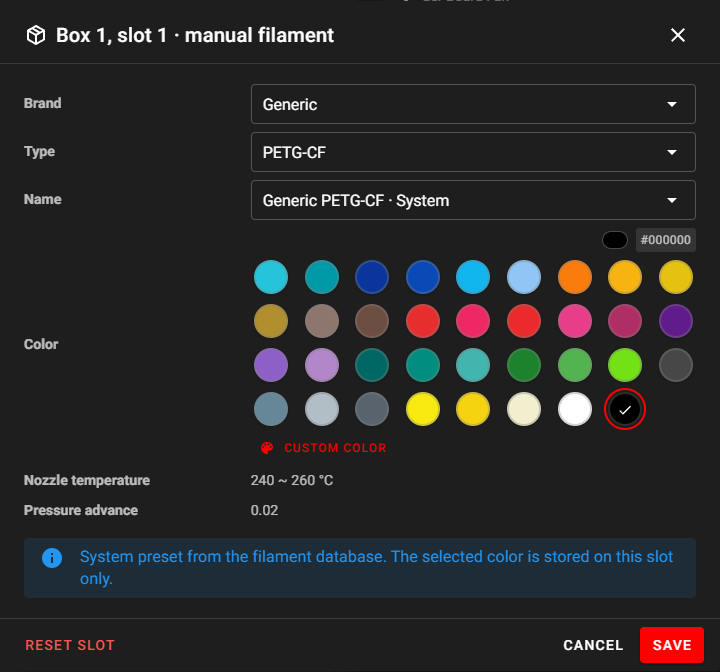
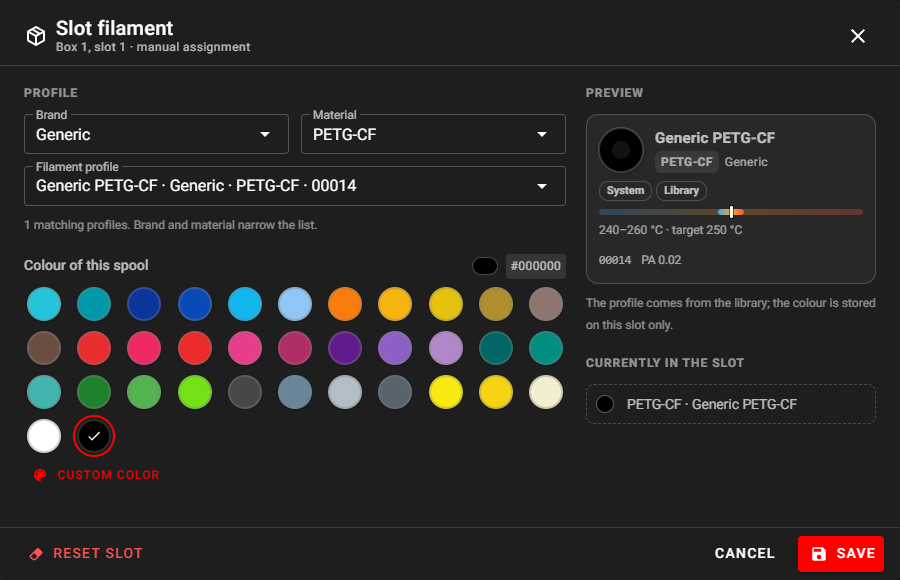
docs(cfs): document brands, the library file and the redesigned dialogs
- Slot editor, RFID sheet and print mapping sections describe the shared
  profile card, the remaining bar, the tag details and the match labels.
- The library section covers origin badges, brand management, the
  K2-RFID ID hint and the library file (config/cfs_filaments.json) with
  the keys that keep K2-RFID, OrcaSlicer and Spoolman working.
- Persistence, backend contract and command list follow the split
  between the library file and the runtime state.
- The Brands dialog note now says that deleting a brand in use moves
  its profiles.
- Refreshed screenshots.

diff --git a/src/components/dialogs/CfsFilamentManagerDialog.vue b/src/components/dialogs/CfsFilamentManagerDialog.vue
@@ -474,8 +474,8 @@
                 <v-card-actions>
                     <span class="cfs-brands-note">
                         <v-icon x-small class="mr-1">{{ mdiInformationOutline }}</v-icon>
-                        Added brands are stored in Mainsail's settings on the printer. A brand used by a profile can be
-                        deleted once no profile uses it; system catalog brands are locked.
+                        Added brands are stored in Mainsail's settings on the printer. Deleting a brand used by custom
+                        profiles moves them to another brand (or none); system catalog brands are locked.
                     </span>
                 </v-card-actions>
             </v-card>

diff --git a/docs/K2_CFS.md b/docs/K2_CFS.md
@@ -180,15 +180,15 @@ The footer shows the API, inventory and print-mapping contract versions. On phon
 
 ## 7. Slot editor (non-RFID spools)
 
-<img src="images/k2-openhost/cfs-slot-editor.png" alt="Slot editor" width="560">
+<img src="images/k2-openhost/cfs-slot-editor.png" alt="Slot editor" width="680">
 
-The pencil opens the slot editor:
+The pencil opens the slot editor. The slot editor, the RFID sheet and the library use the same profile card: spool swatch, name, material and brand, origin badges, the temperature bar and the ID/pressure advance footer.
 
-1. Pick **Brand → Type → Name** from the catalog. The material type comes from the known catalog and is not free text.
-2. Pick a **colour** from the palette (derived from the K2-RFID/Creality app colours) or use **Custom color**.
-3. Press **Save**.
+1. **Profile**: **Brand** and **Material** narrow the list, then **Filament profile** picks the profile (searchable, with colour dots). The counter says how many profiles match.
+2. **Colour of this spool**: pick from the palette (derived from the K2-RFID/Creality app colours) or use **Custom color**.
+3. **Save** assigns the profile and colour to the slot (`_BOX_SLOT_ASSIGN ... COLOR=`).
 
-The nozzle range and pressure advance of the chosen profile are shown read-only. The selected colour is stored on that slot only and does not create a new material profile. **Reset slot** clears only this bay's assignment; library profiles stay available.
+On the right, the **Preview** shows the card as it will be stored, and **Currently in the slot** shows what the bay holds now. The colour belongs to this slot only and does not create a new profile. **Reset slot** clears only this bay's assignment; library profiles stay available.
 
 Manual editing is disabled while a slot is managed by a live RFID tag; removing the tagged spool frees the slot.
 
@@ -196,16 +196,15 @@ Manual editing is disabled while a slot is managed by a live RFID tag; removing 
 
 <img src="images/k2-openhost/cfs-rfid-info.png" alt="RFID filament information" width="560">
 
-RFID-managed slots show a read-only sheet with:
+RFID-managed slots open a read-only sheet:
 
-- material, full name, brand and colour;
-- RFID code and filament ID;
-- nozzle temperature and pressure advance;
-- remaining filament in percent and metres.
+- **Filament on the tag**: the profile card, with the remaining filament drawn as a sector of the spool and the `RFID`, `Read only` and tag code badges.
+- **Remaining**: a bar in the spool colour with the percentage and metres left.
+- **Tag details**: material, full name, brand, colour, RFID code, filament ID, nozzle temperature and pressure advance.
 
-**Reread RFID** reads the tag again.
+**Reread RFID** reads the tag again (`_BOX_RFID_READ_SLOT`).
 
-**Unknown tags:** when a tag carries a material code missing from the inventory, the tile shows `RFID ?`. Its button opens the filament library with the tag code and colour already filled in; saving the new profile resolves the slot at once. Codes follow the DnG-Crafts/K2-RFID scheme (five-character material IDs, `1xxxxx` RFID filament IDs), so tags written with that tool are recognised.
+**Unknown tags:** when a tag carries a material code missing from the inventory, the tile shows `RFID ?`. Its button opens the filament library with the tag code and colour already filled in; saving the new profile resolves the slot at once. Codes follow the DnG-Crafts/K2-RFID scheme (five-digit material IDs, `1xxxxx` tag codes), so tags written with that app are recognised.
 
 ## 9. Filament library
 
@@ -218,8 +217,17 @@ The library holds the read-only **system catalog** shipped with K2-OpenHost (the
 - Every profile is a card with:
   - a spool swatch in its colour, its name, material and brand;
   - a **temperature bar**: the nozzle range on a 150–350 °C scale, with the target/flush temperature as a marker;
-  - badges: `System` or `Custom`, the RFID material code, and **In use** with the slots currently using the profile;
+  - badges: the **origin**, the RFID material code, and **In use** with the slots currently using the profile;
   - its ID, pressure advance and Spoolman ID.
+- Origin badges:
+
+  | Badge           | Meaning                                                            |
+  | --------------- | ------------------------------------------------------------------ |
+  | `System`        | shipped Creality/Generic catalog, read only                        |
+  | `Custom`        | created in the library                                             |
+  | `Imported`      | merged from a K2-RFID material database (`material_database_path`) |
+  | `From RFID tag` | registered automatically when its tag was read                     |
+
 - Quick filters **All**, **Custom**, **System** and **In use** (with counts), plus text search over name, brand, material, ID and RFID code, and **Brand** / **Material** filters.
 - An empty result offers **Clear filters**.
 
@@ -237,14 +245,49 @@ The editor is split into sections, with a live **preview** of the card:
 
 1. **Start from** (new profiles): search any system or custom profile and copy its values. The ID and RFID code you already set are kept.
 2. **Identity**:
-   - brand (choose an existing one or type a new one) and material (from the known material families);
-   - name, ideally the OrcaSlicer preset name, so automatic slot mapping can match it;
-   - **ID**: a free 5-digit ID (from 90001) is generated, compatible with K2-RFID tags. The editor refuses an ID that belongs to a system profile or to an existing custom profile, which the backend would otherwise silently overwrite.
+   - **Brand**: choose one from the list or type a new one. The typed text counts at once, even if you press **Create** without Enter. The tag button next to the field opens **Brands** (below).
+   - **Material**, from the known material families;
+   - **Name**, ideally the OrcaSlicer preset name, so automatic slot mapping can match it;
+   - **ID**: a free 5-digit ID (from 90001) is generated. It is the K2-RFID material ID: the hint shows the tag code (`1` + ID) that loads this profile. The editor refuses an ID that belongs to a system profile or to an existing custom profile, which the backend would otherwise overwrite.
 3. **Temperatures**: a range slider plus minimum, target/flush and maximum fields. The target must lie inside the range.
 4. **Colour**: the default colour for manual slots, from the palette or a custom colour.
 5. **Advanced**: pressure advance (0–2), RFID material code (`1xxxxx` tag codes are normalised) and Spoolman ID.
 
 **Create filament** stays disabled until every field is valid. A tag with an unknown RFID code opens this editor prefilled with the tag's code and colour.
+
+**Brands**
+
+| Brand list                                                                            | Deleting a brand in use                                                                             |
+| ------------------------------------------------------------------------------------- | --------------------------------------------------------------------------------------------------- |
+| <img src="images/k2-openhost/cfs-library-brands.png" alt="Brands dialog" width="380"> | <img src="images/k2-openhost/cfs-library-brand-delete.png" alt="Delete a brand in use" width="380"> |
+
+**Brands** (library footer, or the tag button next to the Brand field) lists every brand with what uses it:
+
+- **Add** a brand, so it is offered in the editor before any profile uses it. A brand typed in the editor joins the list when the profile is saved.
+- **Delete** removes a brand nobody uses at once.
+- For a brand used by custom profiles, **Delete** asks where those profiles go: another brand, none, or a new name, which renames the brand. Only the brand changes; temperatures, colour and every other value stay as they are. **Show profiles** filters the library on that brand.
+- Brands of the system catalog are locked.
+
+Added brands are stored in Mainsail's settings on the printer (Moonraker database, namespace `mainsail`, key `cfs.customBrands`), so every browser sees them.
+
+**Where profiles are saved**
+
+<img src="images/k2-openhost/cfs-library-file.png" alt="Library file and reload" width="760">
+
+Custom profiles live in their own file, `config/cfs_filaments.json` (backend `library_path`), named in the library footer:
+
+- it shows up in Mainsail's file manager and in Moonraker backups;
+- it can be edited or replaced from the file manager, the Moonraker file API or a companion app. The backend reloads it within a few seconds, or at once with the reload button (`_BOX_FILAMENT_RELOAD`), and slots using a changed profile follow it;
+- a damaged file is never overwritten: the library shows the error and changes are refused until the file is fixed.
+
+The file uses the same compact format as the system catalog: a `materials` list with `id`, `brand`, `name`, `material`, `color`, `target_temp`, `min_temp`, `max_temp`, `pressure_advance`, `rfid_codes`, `aliases`, `spoolman_id` and `source`. These keys keep the integrations working:
+
+| Integration      | Key                                                                                          |
+| ---------------- | -------------------------------------------------------------------------------------------- |
+| K2-RFID tags     | `id` (5 digits) and `rfid_codes` (`1` + ID): write a tag with that material ID               |
+| OrcaSlicer       | `name` (preset name) for automatic mapping                                                   |
+| Spoolman         | `spoolman_id`                                                                                |
+| K2-RFID database | `material_database_path` is imported when its content changes; deleted profiles stay deleted |
 
 On phones the library opens full screen:
 
@@ -256,7 +299,7 @@ On phones the library opens full screen:
 | --------------------------------------------------------------------------------------------------- | ------------------------------------------------------------------------------------------ |
 | <img src="images/k2-openhost/cfs-print-dialog.png" alt="Print dialog with CFS mapping" width="420"> | <img src="images/k2-openhost/cfs-print-source.png" alt="Filament source menu" width="420"> |
 
-When a print starts from Mainsail, the dialog asks the backend to read the OrcaSlicer metadata of the file (`BOX_PRINT_INFO`). It then lists every slicer tool with its colour, profile and material, and the CFS slot or external spool that will feed it.
+When a print starts from Mainsail, the dialog asks the backend to read the OrcaSlicer metadata of the file (`BOX_PRINT_INFO`). Each slicer tool is a row: its `T` badge, spool colour, profile and material, an arrow, and the CFS slot or external spool that will feed it. Under the source a label says how well it fits: **Same material and colour**, **Same material**, **Different material** or **Not mapped**, and the row's accent colour matches.
 
 - **Auto map** uses the backend matcher. Exact profile matches win, compatible Generic profiles are a safe fallback, and among equivalent RFID spools the lowest remaining one is preferred.
 - **Filament source** lets you change any tool. Each choice shows its live colour dot, slot name, profile and remaining filament.
@@ -317,7 +360,8 @@ Fields used:
 | `load_path`                                                                                 | source slot, encoder, buffer, printhead sensor, clog detection                                                             |
 | `runout`, `runout_groups`, `runout_swap_enabled`                                            | runout sequence and groups                                                                                                 |
 | `recovery`                                                                                  | blocked state and reason                                                                                                   |
-| `filaments`, `materials`                                                                    | library and catalog                                                                                                        |
+| `filaments`, `materials`                                                                    | library and catalog; each filament carries `source` (_newer backend_)                                                      |
+| `filament_library`                                                                          | library file path, counts and error (_optional; newer backend_)                                                            |
 | `print_info`, `print_mapping`, `auto_mapping`, `print_mapping_enabled`                      | print-start mapping                                                                                                        |
 | `unload_after_print_enabled`, `rfid_insert_reading_enabled`, `rfid_startup_reading_enabled` | settings switches                                                                                                          |
 
@@ -334,6 +378,7 @@ BOX_RFID_SCAN
 _BOX_RFID_READ_SLOT SLOT=<n>
 _BOX_SLOT_SET / _BOX_SLOT_CLEAR / _BOX_SLOT_ASSIGN
 _BOX_FILAMENT_SET / _BOX_FILAMENT_DELETE
+_BOX_FILAMENT_RELOAD
 _BOX_SET_RUNOUT_SWAP ENABLE=<0|1>
 _BOX_SET_UNLOAD_AFTER_PRINT ENABLE=<0|1>
 _BOX_SET_RFID_INSERT_READING ENABLE=<0|1>
@@ -346,11 +391,20 @@ BOX_PRINT_START FILENAME=<file> MAP=<tool:slot,...>
 
 ## 15. Persistence
 
-Slot assignments, custom profiles and remaining-filament estimates are backend state, normally stored in `~/printer_data/filament_box.json`. They survive browser reloads and printer restarts.
+The backend keeps two files:
+
+- `~/printer_data/config/cfs_filaments.json`: custom filament profiles (see [Filament library](#9-filament-library)).
+- `~/printer_data/filament_box.json`: slot assignments, remaining-filament estimates, settings and box identities.
+
+The system catalog is read from the firmware at every start and never written, so catalog updates apply after an update. On the first start of this version, custom profiles found in `filament_box.json` move to the library file once; the old file is kept as `filament_box.json.pre-library`.
+
+Both survive browser reloads and printer restarts.
 
 - At startup the backend restores cached assignments for spools still present, after one presence query; it does not sweep every RFID tag.
 - Removing a spool clears only that bay.
 - A confirmed runout stores zero remaining and clears the empty source.
+
+UI preferences such as added brands are Mainsail settings in the Moonraker database.
 
 ## 16. Deployment on the CM5
 

diff --git a/README.md b/README.md
@@ -48,18 +48,18 @@ This fork adds a native **Creality CFS** (Creality Filament System) panel and pr
 
 ### What it adds
 
-| Feature              | What you get                                                                                                                                                                                                                                                    |
-| -------------------- | --------------------------------------------------------------------------------------------------------------------------------------------------------------------------------------------------------------------------------------------------------------- |
-| **CFS panel**        | One section per CFS unit with its own temperature/humidity and offline state, plus the external spool. Status chips for box state, loaded slot and clog/tangle detection                                                                                        |
-| **Filament path**    | CFS → encoder → buffer → printhead joined by a PTFE tube with the filament inside in the real spool colour, filled as far as the sensors report and animated live during loads/unloads; CFS icon in the real bay colours, nozzle with hotend temperature        |
-| **Slot tiles**       | Colour stripe, RFID remaining gauge, material, name and temperature, source badge (RFID / Library / Spoolman / Manual), active state; load, edit, RFID and reread actions                                                                                       |
-| **Runout swap**      | Groups of identical spools with order, strategy and remaining filament; the group in use is marked active                                                                                                                                                       |
-| **Slot editor**      | Brand → Type → Profile → Colour for non-RFID spools, with a preset palette and custom colours                                                                                                                                                                   |
-| **RFID**             | Read-only tag data, per-slot reread, and a one-click flow to create a profile for an unknown tag                                                                                                                                                                |
-| **Filament library** | Card view of the read-only Creality/Generic K2-RFID catalog and your custom profiles, with temperature bars, In-use badges, quick filters, Use in slot, duplicate/edit/delete, and a sectioned editor with live preview, generated IDs and overwrite protection |
-| **Print mapping**    | The Print dialog maps every slicer tool to a CFS slot (auto-map + manual choice) and starts with `BOX_PRINT_START`                                                                                                                                              |
-| **Any screen**       | Layout follows the panel width (container queries): 4, 2 or 1 tile columns, compact tiles in narrow dashboard columns, larger touch targets                                                                                                                     |
-| **Several CFS**      | Up to four units, with unit-aware slot names (`Slot 3` with one CFS, `B2·S4` with several)                                                                                                                                                                      |
+| Feature              | What you get                                                                                                                                                                                                                                                                             |
+| -------------------- | ---------------------------------------------------------------------------------------------------------------------------------------------------------------------------------------------------------------------------------------------------------------------------------------- |
+| **CFS panel**        | One section per CFS unit with its own temperature/humidity and offline state, plus the external spool. Status chips for box state, loaded slot and clog/tangle detection                                                                                                                 |
+| **Filament path**    | CFS → encoder → buffer → printhead joined by a PTFE tube with the filament inside in the real spool colour, filled as far as the sensors report and animated live during loads/unloads; CFS icon in the real bay colours, nozzle with hotend temperature                                 |
+| **Slot tiles**       | Colour stripe, RFID remaining gauge, material, name and temperature, source badge (RFID / Library / Spoolman / Manual), active state; load, edit, RFID and reread actions                                                                                                                |
+| **Runout swap**      | Groups of identical spools with order, strategy and remaining filament; the group in use is marked active                                                                                                                                                                                |
+| **Slot editor**      | Brand → Type → Profile → Colour for non-RFID spools, with a preset palette and custom colours                                                                                                                                                                                            |
+| **RFID**             | Read-only tag data, per-slot reread, and a one-click flow to create a profile for an unknown tag                                                                                                                                                                                         |
+| **Filament library** | Card view of the read-only Creality/Generic K2-RFID catalog and your custom profiles (saved in `config/cfs_filaments.json`), with origin and In-use badges, quick filters, Use in slot, duplicate/edit/delete, brand management and a sectioned editor with live preview and K2-RFID IDs |
+| **Print mapping**    | The Print dialog maps every slicer tool to a CFS slot (auto-map + manual choice) and starts with `BOX_PRINT_START`                                                                                                                                                                       |
+| **Any screen**       | Layout follows the panel width (container queries): 4, 2 or 1 tile columns, compact tiles in narrow dashboard columns, larger touch targets                                                                                                                                              |
+| **Several CFS**      | Up to four units, with unit-aware slot names (`Slot 3` with one CFS, `B2·S4` with several)                                                                                                                                                                                               |
 
 ### Screenshots
 
